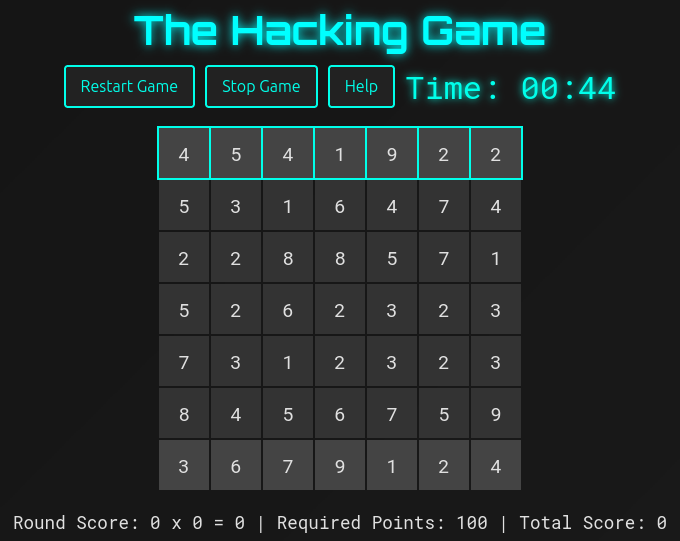
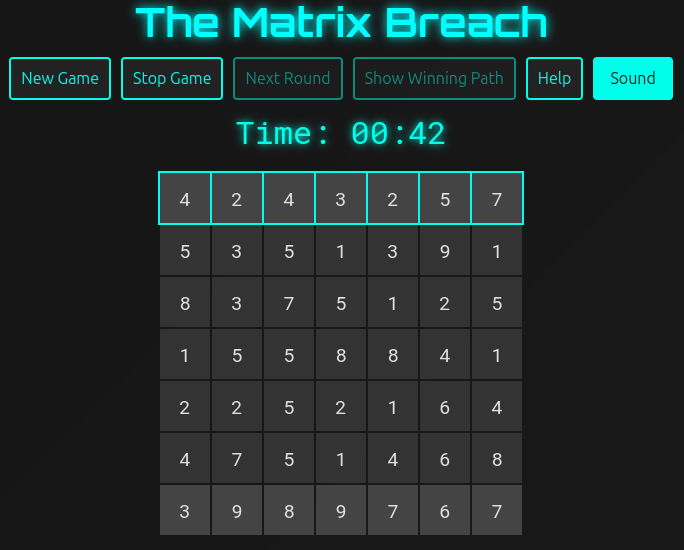
Update name and README.md

Changed region(s): [[0.0, 0.0, 0.9882, 0.6802], [0.2162, 0.6802, 0.9882, 0.976], [0.0, 0.9464, 0.1853, 0.976]]

diff --git a/index.html b/index.html
@@ -3,14 +3,14 @@
 <head>
   <meta charset="UTF-8" />
   <meta name="viewport" content="width=device-width, initial-scale=1">
-  <title>The Hacking Game</title>
+  <title>The Matrix Breach</title>
   <!-- Google Fonts for a cyberpunk feel -->
   <link href="https://fonts.googleapis.com/css2?family=Orbitron:wght@400;700&family=Roboto+Mono&display=swap" rel="stylesheet">
   <link rel="stylesheet" href="style.css" />
 </head>
 <body>
   <header>
-    <h1>The Hacking Game</h1>
+    <h1>The Matrix Breach</h1>
   </header>
 
   <div class="controls">
@@ -64,7 +64,7 @@
     <div id="helpContent">
       <h2>How to Play</h2>
       <ul>
-        <li>The Hacking Game is a puzzle game inspired by the <a href="https://cyberpunk.fandom.com/wiki/Quickhacking">Cyberpunk 2077 hacking minigame</a>. You are a hacker trying to breach a secure system.</li>
+        <li>The Matrix Breach is a puzzle game inspired by the <a href="https://cyberpunk.fandom.com/wiki/Quickhacking">Cyberpunk 2077 hacking minigame</a>. You are a hacker trying to breach a secure system.</li>
         <li>The board is a grid of tiles (7×7 by default), with each tile showing a number between 1 and 9.</li>
         <li>Begin by selecting a tile in the top row.</li>
         <li>Your second move can be in the same row or column as your first; then moves alternate between horizontal and vertical.</li>

diff --git a/README.md b/README.md
@@ -1,6 +1,6 @@
-# The Hacking Game
+# The Matrix Breach
 
-**The Hacking Game** is a browser-based puzzle game inspired by the [Cyberpunk 2077 hacking minigame](https://cyberpunk.fandom.com/wiki/Quickhacking). You are a hacker who must breach the firewall of the system by collecting enough points on the grid. When you succeed, you move on to the next level with a higher target score.
+**The Matrix Breach** is a browser-based puzzle game inspired by the [Cyberpunk 2077 hacking minigame](https://cyberpunk.fandom.com/wiki/Quickhacking). You are a hacker who must breach the system by collecting enough points on the matrix. When you succeed to breach the matrix, you move on to the next level with a higher target score.
 
 ## How to Run the Game
 
@@ -19,12 +19,10 @@ Open the `index.html` file in your browser.
 ## Game Rules
 
 - **Grid Setup:**
-  - The board consists of a 7×7 grid. Each tile displays a number between 1 and 9.
-
-- **Starting the Round:**
-  - The **first tile** you select must be in the **top row**.
+  - The matrix consists of a 7×7 grid. Each tile displays a number between 1 and 9.
 
 - **Making Moves:**
+  - The **first tile** you select must be in the **top row**.
   - For your second move, you may choose any tile in the same row or the same column as your first choice.
   - From the third move onward, moves must **alternate**: if your previous move was **horizontal** (i.e., same row), the next move must be **vertical** (i.e., same column) and vice versa.
   - You can only select a tile with a **number equal to or higher than the number on you last selected**.
@@ -35,6 +33,13 @@ Open the `index.html` file in your browser.
   - To win the round, your score must meet or exceed the current required points (shown at the bottom). After a win, the required points increase.
   - If you run out of time, have no legal moves, or the final score is too low, you lose the round.
   - If you lose, you may click **"Show Winning Path"** to view one possible solution.
+
+- **Chase new high scores**
+  - After each win, the next breach becomes more difficult.
+  - Beat your high score by breaching deeper and deeper.
+
+- **Tip**
+  - Hover over a tile to preview the score.
 
 ## Screenshots
 
@@ -52,7 +57,7 @@ Game win:
 
 If you lose, you can view the winning path:
 
-![Game lose (with winning path shown)](./04-loss.png)
+![Game loss (with winning path shown)](./04-loss.png)
 
 
 ## Developer Overview: How It Works
@@ -99,4 +104,4 @@ This game was 99% written by ChatGPT o3-mini.
 
 ---
 
-Enjoy playing **The Hacking Game** and feel free to modify or extend its functionality as needed!
+Enjoy playing **The Matrix Breach** and feel free to modify or extend its functionality as needed!
